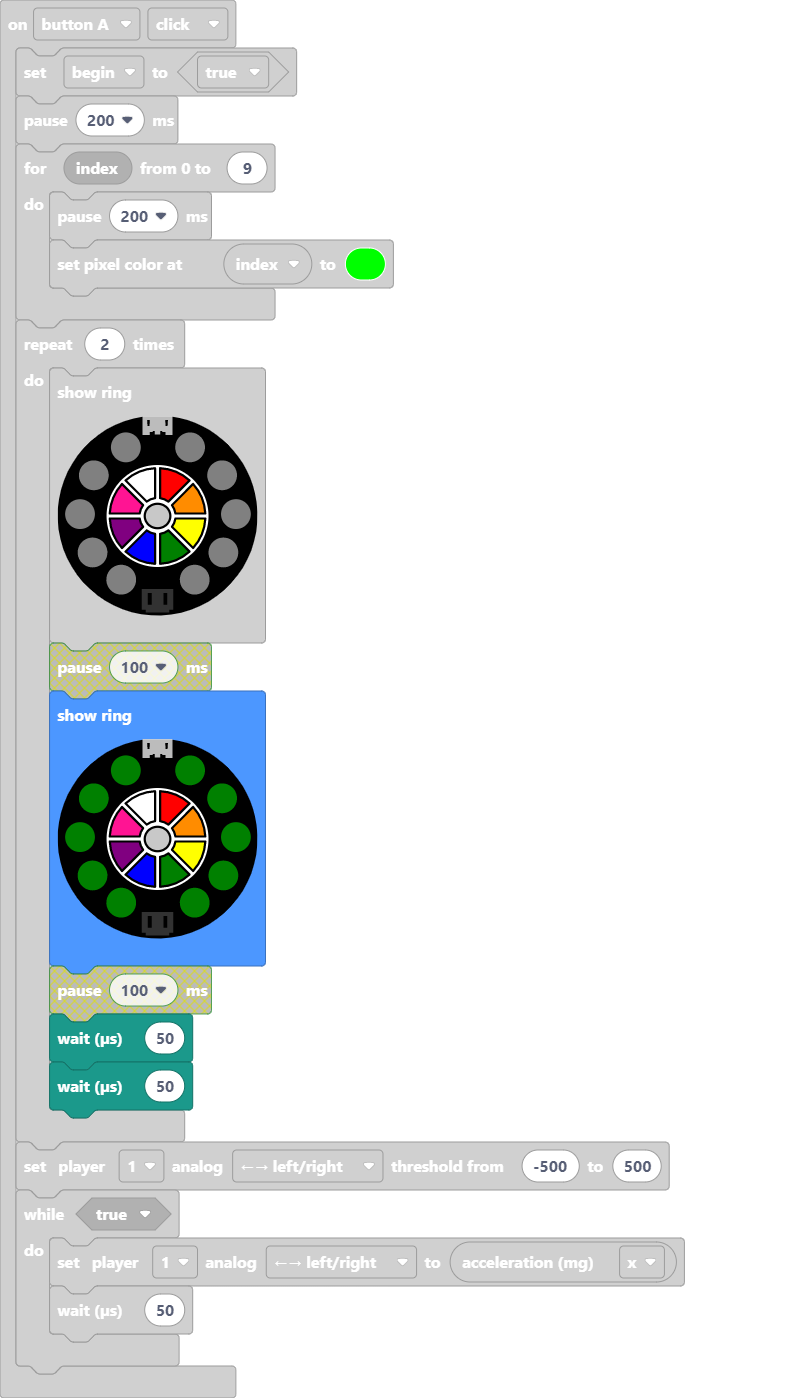
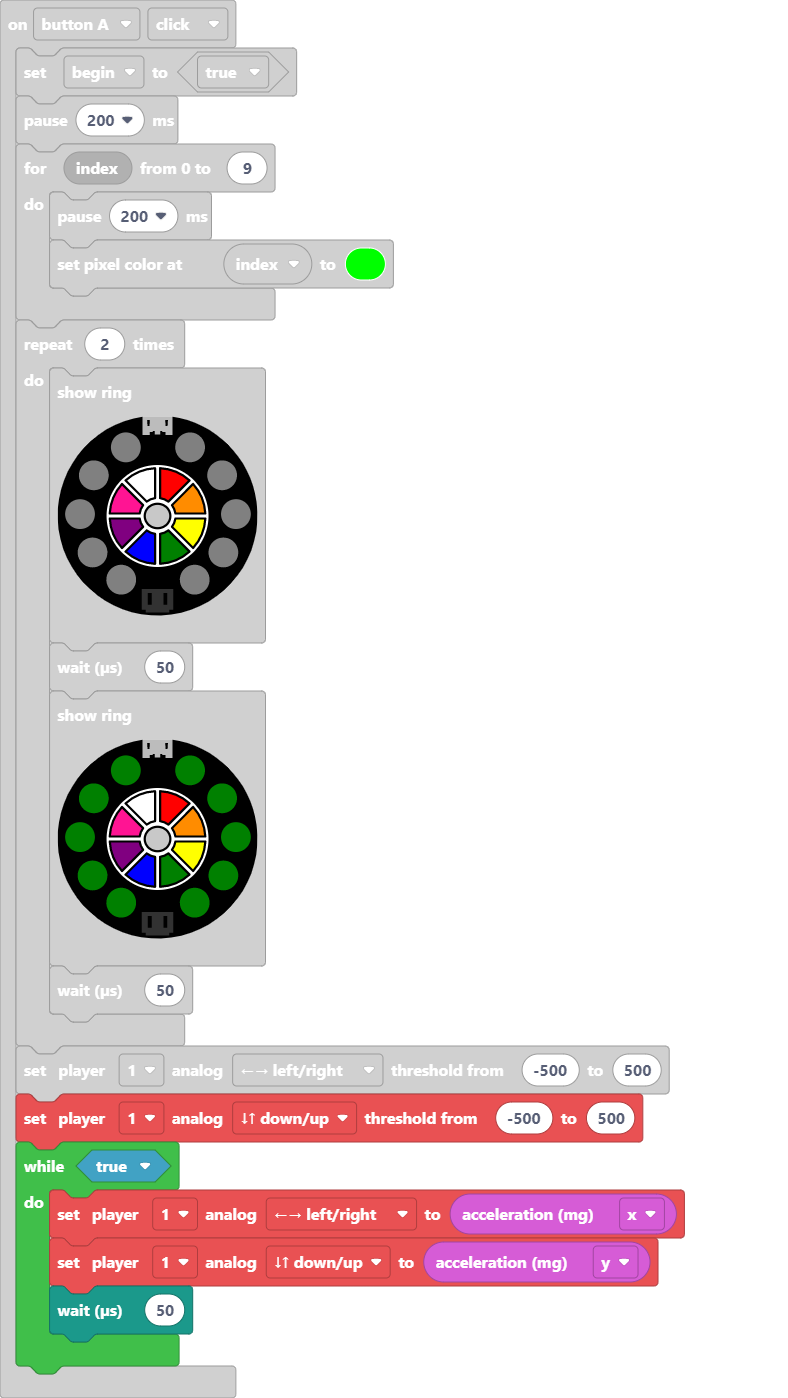
Update pxt.json, main.blocks, main.ts

Changed region(s): [[0.0, 0.4614, 0.8832, 0.9843]]

diff --git a/main.ts b/main.ts
@@ -16,8 +16,10 @@ input.buttonA.onEvent(ButtonEvent.Click, function () {
         control.waitMicros(50)
     }
     makerController.player1.setAnalogThreshold(ArcadeAnalogButton.LeftRight, -500, 500)
+    makerController.player1.setAnalogThreshold(ArcadeAnalogButton.DownUp, -500, 500)
     while (true) {
         makerController.player1.setAnalog(ArcadeAnalogButton.LeftRight, input.acceleration(Dimension.X))
+        makerController.player1.setAnalog(ArcadeAnalogButton.DownUp, input.acceleration(Dimension.Y))
         control.waitMicros(50)
     }
 })
